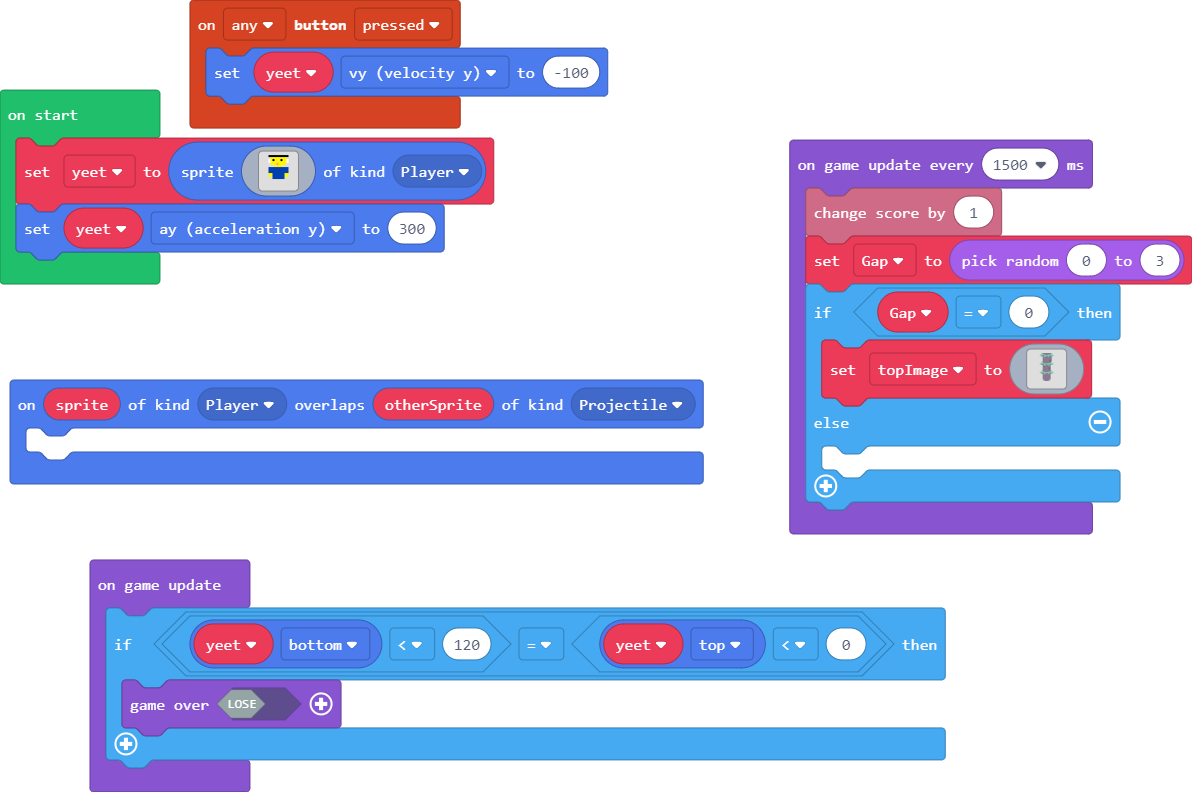
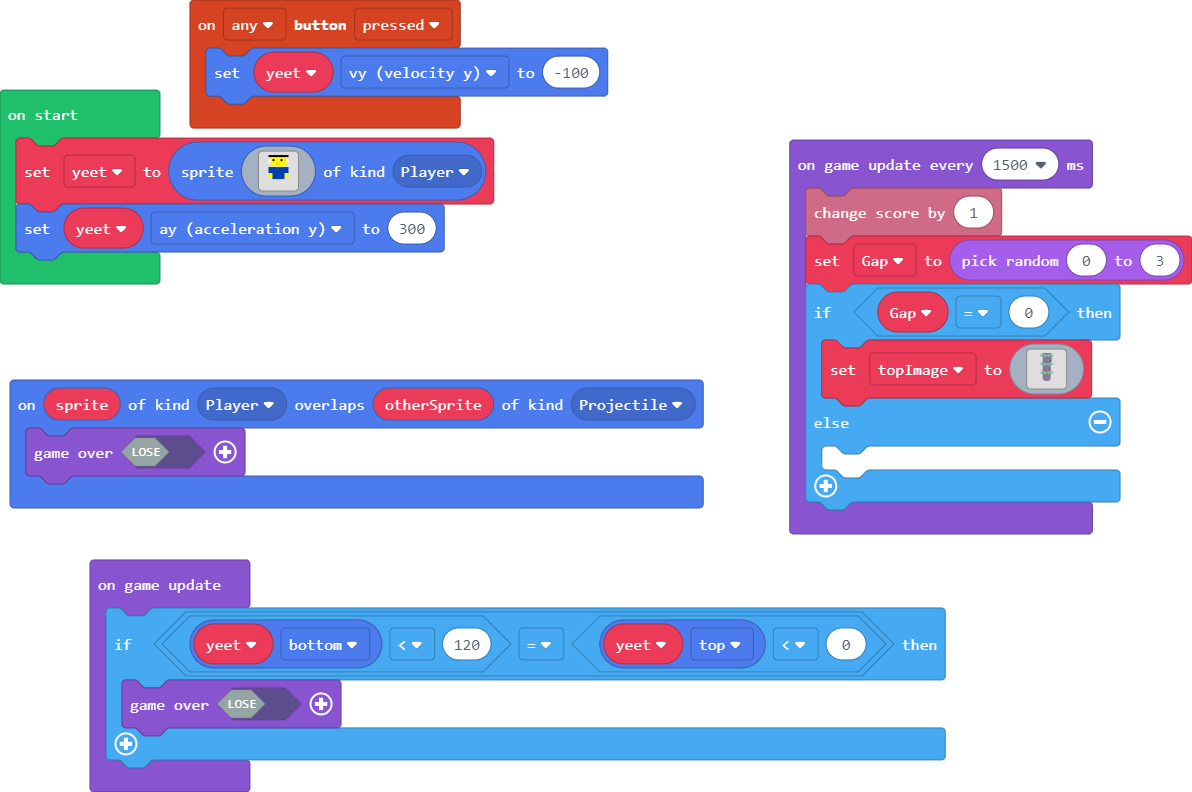
Update main.blocks, main.ts

Changed region(s): [[0.0, 0.5152, 0.5898, 0.6667]]

diff --git a/main.ts b/main.ts
@@ -1,5 +1,5 @@
 sprites.onOverlap(SpriteKind.Player, SpriteKind.Projectile, function (sprite, otherSprite) {
-	
+    game.over(false)
 })
 controller.anyButton.onEvent(ControllerButtonEvent.Pressed, function () {
     yeet.vy = -100
